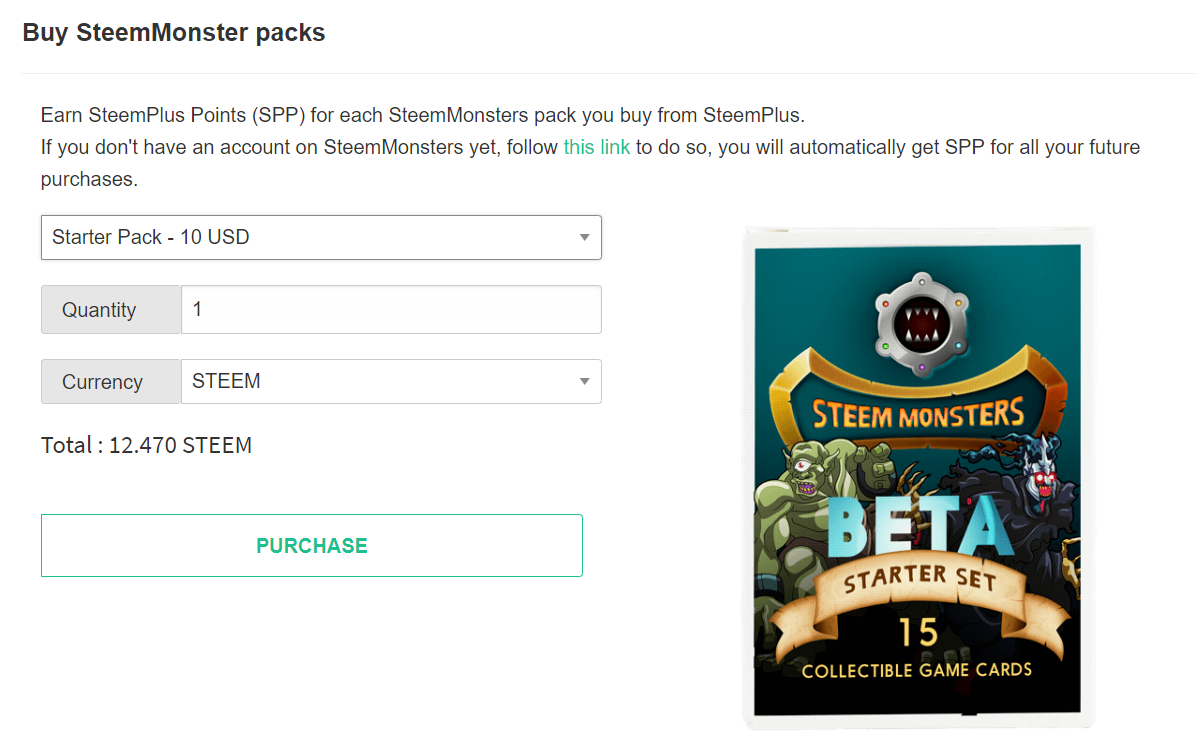
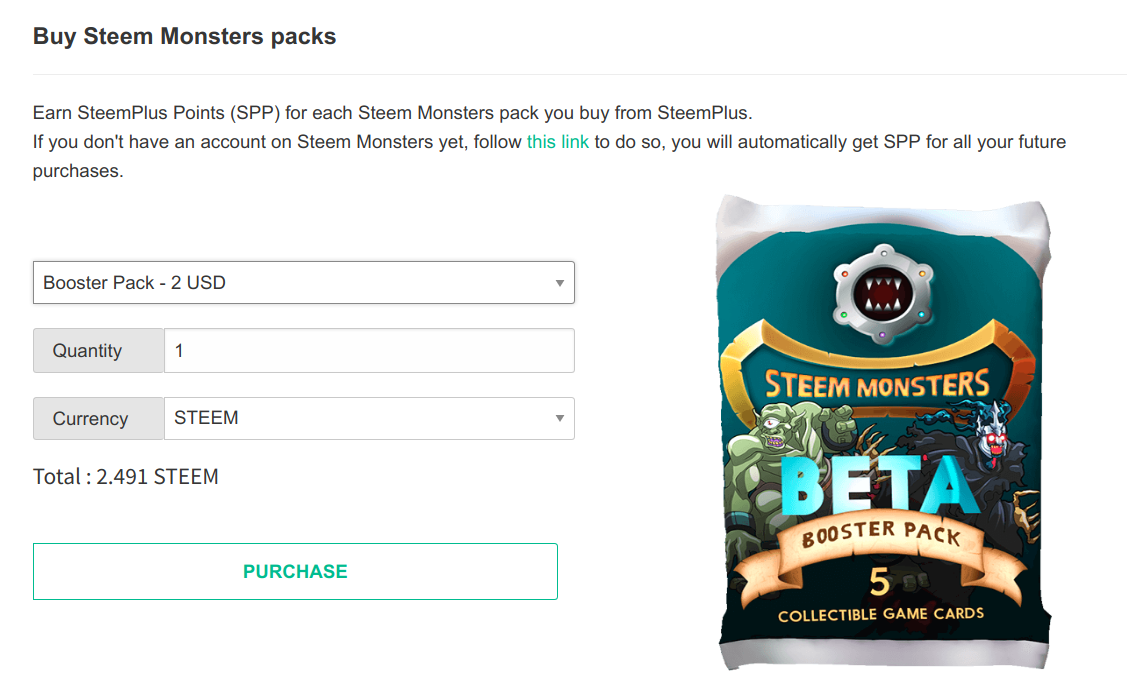
Updating SM Carroussel

diff --git a/src/js/steemplus_points.js b/src/js/steemplus_points.js
@@ -16,7 +16,7 @@ var wayList = [
     {id: "3", title: "Create a post with Donation for Steemplus",description:"Use the \'Post and Support\' button on the post creation page. (Login to SteemConnect required).", description_post: "@steem-plus/steemplus-2-18-2-post-and-support", "url": "src/img/howtoearnspp/donation.png", formula: "The amount @steemplus-pay will receive as a benefactor * 100 (example : if @steemplus-pay receives 5 SBD worth of SP, you will receive 500 SPP)"},
     {id: "4", title: "Create a new DTube post using Steemplus",description:"Post to DTube by putting dtube followed by a space in the tag bar, then following the instructions in the DTube popup (Login to SteemConnect required).", description_post: "https://steemit.com/utopian-io/@steem-plus/steemplus-221-earn-more-by-posting-to-dtube-via-steemplus", "url": "src/img/howtoearnspp/dtube.png", formula: "The amount @steemplus-pay will receive as a benefactor * 100 (example : if @steemplus-pay receives 5 SBD worth of SP, you will receive 500 SPP)"},
     {id: "5", title: "Create a new Utopian post using Steemplus",description: "Post to Utopian by typing utopian-io followed by a space in the tag bar, then following the instructions in the Utopian popup (Login to SteemConnect required).", description_post: "@steem-plus/steemplus-220-utopian--steemplus-partnership--bigger-upvotes", "url": "src/img/howtoearnspp/utopian.png", formula: "The amount @steemplus-pay will receive as a benefactor * 100 (example : if @steemplus-pay receives 5 SBD worth of SP, you will receive 500 SPP)"},
-    {id: "6", title: "Buy SteemMonsters boosters using Steemplus",description: "Earn SteemPlus Points (SPP) for each SteemMonsters pack you buy from SteemPlus. <br> If you don\'t have an account on SteemMonsters yet, follow <a href='https://steemmonsters.com/?ref=steemplus-pay' target='_blank'>this link</a> to do so, you will automatically get SPP for all your future purchases.", description_post: "@steem-plus/", "url": "src/img/howtoearnspp/steemmonsters.png", formula: "The amount @steemplus-pay will receive as a benefactor * 100 (example : if @steemplus-pay receives 5 SBD worth of SP, you will receive 500 SPP)"}
+    {id: "6", title: "Buy Steem Monsters packs using Steemplus",description: "Earn SteemPlus Points (SPP) for each SteemMonsters pack you buy from SteemPlus. <br> If you don\'t have an account on SteemMonsters yet, follow <a href='https://steemmonsters.com/?ref=steemplus-pay' target='_blank'>this link</a> to do so, you will automatically get SPP for all your future purchases.", description_post: "@steem-plus/", "url": "src/img/howtoearnspp/steemmonsters.png", formula: "You will get 10 times more SPP than the SPP you spend (spend 20 SBD buying cards, earn 200 SPP)"}
 ]
 
 chrome.runtime.onMessage.addListener(function(request, sender, sendResponse) {

diff --git a/src/js/steem_monsters.js b/src/js/steem_monsters.js
@@ -35,7 +35,9 @@ chrome.runtime.onMessage.addListener(function(request, sender, sendResponse) {
         isBusy = request.data.busy;
         myUsernameSteemMonster = request.data.user;
         retrySteemMonster = 0;
-        startSteemMonsterTab();
+				setTimeout(function(){
+        	startSteemMonsterTab();
+				},1000);
     }
 });
 

diff --git a/vendor/smi/base_tab.js b/vendor/smi/base_tab.js
@@ -312,8 +312,6 @@
         $('body').on('click', '.UserHeader__container > div > a', onMenuItemClick);
     }
 
-
-
     var Tabs = {
         createTab: createTab,
         enableTab: enableTab,
@@ -323,5 +321,4 @@
 
     window.SteemPlus = window.SteemPlus || {};
     window.SteemPlus.Tabs = Tabs;
-
 })()
